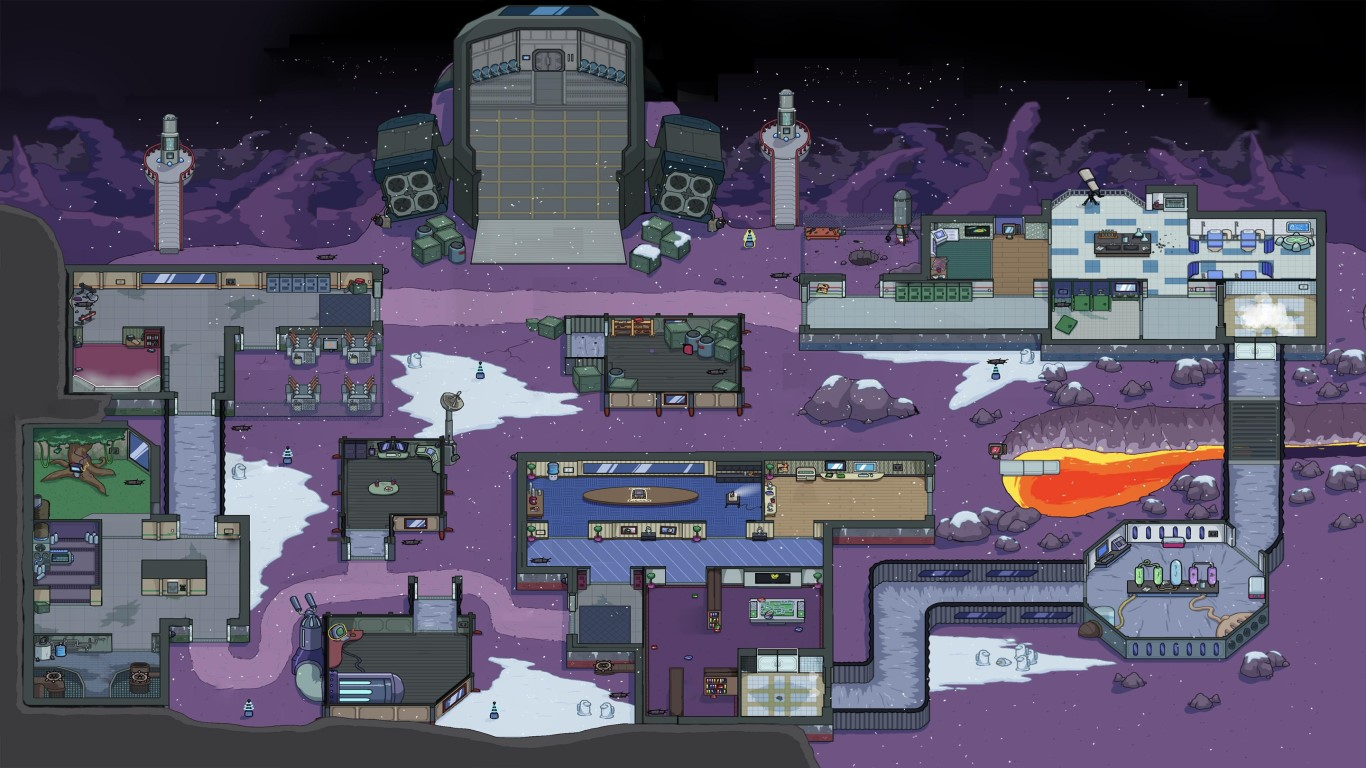
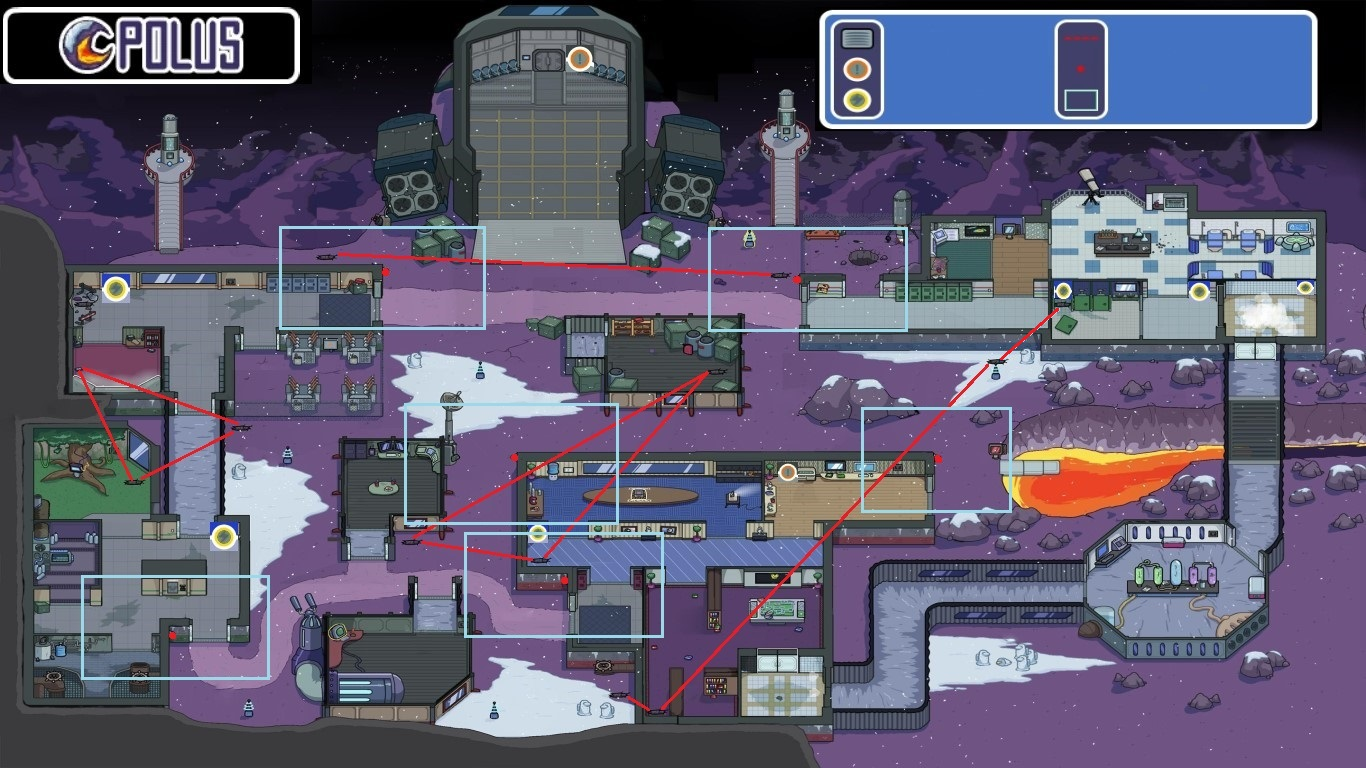
Added Polus detailed maps and fixed text positions for that.

diff --git a/src/components/MapsPanel/PolusWithDetails.tsx b/src/components/MapsPanel/PolusWithDetails.tsx
@@ -1,0 +1,323 @@
+import React from "react";
+import { useTranslation } from "react-i18next";
+
+export default function Polus(
+  props: React.SVGProps<SVGSVGElement>
+): JSX.Element {
+  const { t } = useTranslation();
+
+  return (
+    <svg viewBox="0 0 1366 768" {...props}>
+      <title>{"Polus"}</title>
+      <image
+        fill="#b3cde0"
+        href="assets/Polus-detailed.jpg"
+        preserveAspectRatio="xMidYMid meet"
+      />
+      <text
+        fontWeight="bold"
+        fontFamily="Titillium Web, sans-serif"
+        fontSize={20}
+        y={375}
+        x={264.5}
+        strokeOpacity="null"
+        strokeWidth="0.5"
+        stroke="#000"
+        fill="#EEC200"
+        preserveAspectRatio="xMidYMid meet"
+      >
+        {t("maps.electrical")}
+      </text>
+      <text
+        fontWeight="bold"
+        fontFamily="Titillium Web, sans-serif"
+        fontSize={20}
+        y={365}
+        x={75.5}
+        strokeOpacity="null"
+        strokeWidth="0.5"
+        stroke="#000"
+        fill="#EEC200"
+        preserveAspectRatio="xMidYMid meet"
+      >
+        {t("maps.security")}
+      </text>
+      <text
+        fontWeight="bold"
+        fontFamily="Titillium Web, sans-serif"
+        fontSize={20}
+        y={433}
+        x={865.5}
+        strokeOpacity="null"
+        strokeWidth="0.5"
+        stroke="#000"
+        fill="#EEC200"
+        preserveAspectRatio="xMidYMid meet"
+      >
+        {t("maps.east")}
+      </text>
+      <text
+        fontWeight="bold"
+        fontFamily="Titillium Web, sans-serif"
+        fontSize={20}
+        y={361}
+        x={631.5}
+        strokeOpacity="null"
+        strokeWidth="null"
+        stroke="#000"
+        fill="#EEC200"
+        preserveAspectRatio="xMidYMid meet"
+      >
+        {t("maps.storage")}
+      </text>
+      <text
+        fontWeight="bold"
+        fontFamily="Titillium Web, sans-serif"
+        fontSize={20}
+        y={260}
+        x={984.5}
+        strokeOpacity="null"
+        strokeWidth="1"
+        stroke="#000"
+        fill="#EEC200"
+        preserveAspectRatio="xMidYMid meet"
+      >
+        {t("maps.laboratory")}
+      </text>
+      <text
+        fontWeight="bold"
+        fontFamily="Titillium Web, sans-serif"
+        fontSize={20}
+        y={597}
+        x={1085.5}
+        strokeOpacity="null"
+        strokeWidth="0.5"
+        stroke="#000"
+        fill="#EEC200"
+        preserveAspectRatio="xMidYMid meet"
+      >
+        {t("maps.specimenRoom")}
+      </text>
+      <text
+        transform="rotate(45 684.608 655)"
+        fontWeight="bold"
+        fontFamily="Titillium Web, sans-serif"
+        fontSize={20}
+        y={662}
+        x={653.5}
+        strokeOpacity="null"
+        strokeWidth="null"
+        stroke="#000"
+        fill="#EEC200"
+        preserveAspectRatio="xMidYMid meet"
+      >
+        {t("maps.admin")}
+      </text>
+      <text
+        fontWeight="bold"
+        fontFamily="Titillium Web, sans-serif"
+        fontSize={20}
+        y={660}
+        x={358.5}
+        strokeOpacity="null"
+        strokeWidth="0.5"
+        stroke="#000"
+        fill="#EEC200"
+        preserveAspectRatio="xMidYMid meet"
+      >
+        {t("maps.weapons")}
+      </text>
+      <text
+        transform="rotate(45 424.608 494)"
+        fontWeight="bold"
+        fontFamily="Titillium Web, sans-serif"
+        fontSize={20}
+        y={531}
+        x={303.5}
+        strokeOpacity="null"
+        strokeWidth="null"
+        stroke="#000"
+        fill="#EEC200"
+        preserveAspectRatio="xMidYMid meet"
+      >
+        {t("maps.communications")}
+      </text>
+      <text
+        fontWeight="bold"
+        fontFamily="Titillium Web, sans-serif"
+        fontSize={20}
+        y={499}
+        x={659.5}
+        strokeOpacity="null"
+        strokeWidth="null"
+        stroke="#000"
+        fill="#EEC200"
+        preserveAspectRatio="xMidYMid meet"
+      >
+        {t("maps.office")}
+      </text>
+      <text
+        fontWeight="bold"
+        fontFamily="Titillium Web, sans-serif"
+        fontSize={20}
+        y={519}
+        x={181.5}
+        strokeOpacity="null"
+        strokeWidth="null"
+        stroke="#000"
+        fill="#EEC200"
+        preserveAspectRatio="xMidYMid meet"
+      >
+        {t("maps.o2")}
+      </text>
+      <text
+        fontWeight="bold"
+        fontFamily="Titillium Web, sans-serif"
+        fontSize={20}
+        y={428}
+        x={409.5}
+        strokeOpacity="null"
+        strokeWidth="1"
+        stroke="#000"
+        fill="#EEC200"
+        preserveAspectRatio="xMidYMid meet"
+      >
+        {t("maps.central")}
+      </text>
+      <text
+        fontWeight="bold"
+        fontFamily="Titillium Web, sans-serif"
+        fontSize={20}
+        y={250}
+        x={712.5}
+        strokeOpacity="null"
+        strokeWidth="0.5"
+        stroke="#000"
+        fill="#EEC200"
+        preserveAspectRatio="xMidYMid meet"
+      >
+        {t("maps.northeast")}
+      </text>
+      <text
+        fontWeight="bold"
+        fontFamily="Titillium Web, sans-serif"
+        fontSize={20}
+        y={632}
+        x={475.5}
+        strokeOpacity="null"
+        strokeWidth="0.5"
+        stroke="#000"
+        fill="#EEC200"
+        preserveAspectRatio="xMidYMid meet"
+      >
+        {t("maps.south")}
+      </text>
+      <text
+        fontWeight="bold"
+        fontFamily="Titillium Web, sans-serif"
+        fontSize={20}
+        y={598}
+        x={85.5}
+        strokeOpacity="null"
+        strokeWidth="0.5"
+        stroke="#000"
+        fill="#EEC200"
+        preserveAspectRatio="xMidYMid meet"
+      >
+        {t("maps.southwest")}
+      </text>
+      <text
+        fontWeight="bold"
+        fontFamily="Titillium Web, sans-serif"
+        fontSize={20}
+        y={248}
+        x={285.5}
+        strokeOpacity="null"
+        strokeWidth="0.5"
+        stroke="#000"
+        fill="#EEC200"
+        preserveAspectRatio="xMidYMid meet"
+      >
+        {t("maps.northwest")}
+      </text>
+      <text
+        fontFamily="Titillium Web, sans-serif"
+        fontSize={20}
+        y={45}
+        x={890}
+        strokeOpacity="null"
+        strokeWidth={0}
+        stroke="#000"
+        fill="#fff"
+        preserveAspectRatio="xMidYMid meet"
+      >
+        {t("maps.vents")}
+      </text>
+      <text
+        fontFamily="Titillium Web, sans-serif"
+        fontSize={20}
+        y={77.5}
+        x={890}
+        strokeOpacity="null"
+        strokeWidth={0}
+        stroke="#000"
+        fill="#fff"
+        preserveAspectRatio="xMidYMid meet"
+      >
+        {t("maps.commonTasks")}
+      </text>
+      <text
+        fontFamily="Titillium Web, sans-serif"
+        fontSize={20}
+        y={110}
+        x={890}
+        strokeOpacity="null"
+        strokeWidth={0}
+        stroke="#000"
+        fill="#fff"
+        preserveAspectRatio="xMidYMid meet"
+      >
+        {t("maps.wiringTasks")}
+      </text>
+      <text
+        fontFamily="Titillium Web, sans-serif"
+        fontSize={20}
+        y={45}
+        x={1110}
+        strokeOpacity="null"
+        strokeWidth={0}
+        stroke="#000"
+        fill="#fff"
+        preserveAspectRatio="xMidYMid meet"
+      >
+        {t("maps.ventConnections")}
+      </text>
+      <text
+        fontFamily="Titillium Web, sans-serif"
+        fontSize={20}
+        y={77.5}
+        x={1110}
+        strokeOpacity="null"
+        strokeWidth={0}
+        stroke="#000"
+        fill="#fff"
+        preserveAspectRatio="xMidYMid meet"
+      >
+        {t("maps.securityCameras")}
+      </text>
+      <text
+        fontFamily="Titillium Web, sans-serif"
+        fontSize={20}
+        y={110}
+        x={1110}
+        strokeOpacity="null"
+        strokeWidth={0}
+        stroke="#000"
+        fill="#fff"
+        preserveAspectRatio="xMidYMid meet"
+      >
+        {t("maps.cameraZones")}
+      </text>
+    </svg>
+  );
+}

diff --git a/src/components/MapsPanel/MapsPanel.tsx b/src/components/MapsPanel/MapsPanel.tsx
@@ -5,6 +5,7 @@ import Draggable from "react-draggable";
 import MiraHq from "./MiraHq";
 import MiraHqWithDetails from "./MiraHqWithDetails";
 import Polus from "./Polus";
+import PolusWithDetails from "./PolusWithDetails";
 import React from "react";
 import TheSkeld from "./TheSkeld";
 import TheSkeldWithDetails from "./TheSkeldWithDetails";
@@ -15,7 +16,7 @@ import { useTranslation } from "react-i18next";
 export default function MapsPanel(): JSX.Element {
   const { t } = useTranslation();
 
-  const [map, setMap] = React.useState("mira");
+  const [map, setMap] = React.useState("polus");
   const [resetState, setResetState] = React.useState(false);
   const [showDetails, setShowDetails] = React.useState(true);
 
@@ -48,7 +49,7 @@ export default function MapsPanel(): JSX.Element {
   if (map === "mira") {
     currentMap = showDetails ? <MiraHqWithDetails /> : <MiraHq />;
   } else if (map === "polus") {
-    currentMap = <Polus />;
+    currentMap = showDetails ? <PolusWithDetails /> : <Polus />;
   }
 
   React.useEffect(() => {
